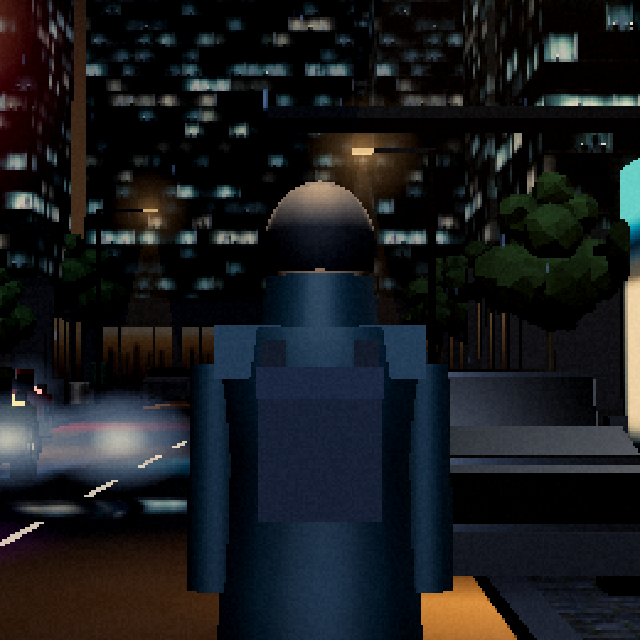
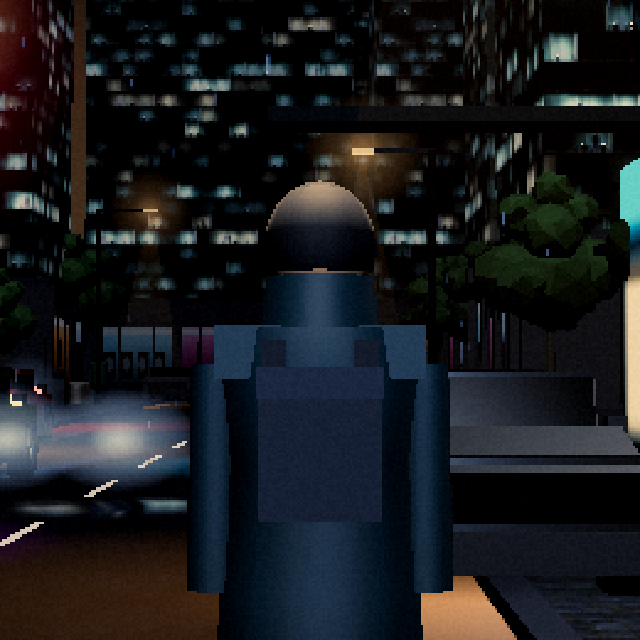
feat(render): four trades on the block instead of one bulb (VGA-043)
The shopfronts were never given away by any single pane. They were given away
by twenty identical amber panes in a row: one canvas texture, one colour
temperature, one stock layout, repeated down the whole district.

The interior is now a 256x128 four-cell atlas — grocery, noodle bar,
laundromat, boutique — each with its own wash and its own stock: gondola
aisles and a shelf line, a counter with a cook behind it and pendant stems
overhead, washer drums with lit glass, mannequins on a plinth. Each trade
also carries its own pavement spill colour, so the light landing on the
pavement agrees with the light in the window.

Bays choose a cell by (blockIndex * 3 + bayIndex) % 4. Three is coprime with
four, so no two neighbouring tenancies match and no block repeats the block
before it. This is a UV offset into a texture that already existed: no new
material, no new mesh, no new draw.

Two contrast fixes that came out of looking at it at eye level:

- Every pane's wash bottomed out near black, so the lower third was a void
  and the shopfront read as a bright band floating over a hole. Floors lifted.
- The shared trim material (sills, mullions, plinths, awnings) was 0x0b0d12.
  An awning at that value is not dark, it is absent — a hole punched in the
  frame. Now 0x1b1f27 with a little metalness and env response.

Draws: 156 peak / 140 mode on the same scripted sweep — unchanged from
b34d167, as expected for a UV-only change.
[…]

diff --git a/src/render/block.js b/src/render/block.js
@@ -281,33 +281,81 @@ const FACADE_MAPS = [
 // What the pane emits, not what colour it is. A flat amber rectangle is a
 // lightbox; a shop is a bright ceiling, a dim floor and stock in between, and
 // at play distance that gradient plus a few dark verticals is the whole read.
-// Every pane maps this once, so the district costs one 128x64 canvas.
-function shopInteriorTexture() {
-  const c = document.createElement('canvas');
-  c.width = 128;
-  c.height = 64;
-  const g = c.getContext('2d');
-  const wash = g.createLinearGradient(0, 0, 0, 64);
-  wash.addColorStop(0, '#ffdcae');
-  wash.addColorStop(0.28, '#e8a863');
-  wash.addColorStop(0.72, '#8a5a30');
-  wash.addColorStop(1, '#241708');
+//
+// Four of them, in one 256x128 atlas, because the thing that gave the old
+// single-cell version away was not any one pane — it was twenty identical
+// amber panes in a row down the block. Each trade also gets its own colour
+// temperature, so the street stops being lit by one bulb.
+const SHOP_KINDS = [
+  { wash: ['#eef6ff', '#d4e3f4', '#9db2c8', '#3c4a5a'], spill: '#dbe8ff' },  // grocery
+  { wash: ['#ffe0b0', '#efad70', '#9a663a', '#4a301a'], spill: '#ffb066' },  // noodle bar
+  { wash: ['#dff6ff', '#a8dcef', '#5d8b9e', '#2c424c'], spill: '#bfe4f5' },  // laundromat
+  { wash: ['#ffd9ec', '#e894c1', '#95496d', '#452032'], spill: '#ffa8d0' },  // boutique
+];
+
+function paintShopCell(g, kind, ox, oy) {
+  const w = 128;
+  const h = 64;
+  const wash = g.createLinearGradient(0, oy, 0, oy + h);
+  const stops = SHOP_KINDS[kind].wash;
+  [0, 0.28, 0.72, 1].forEach((t, i) => wash.addColorStop(t, stops[i]));
   g.fillStyle = wash;
-  g.fillRect(0, 0, 128, 64);
-  g.fillStyle = 'rgba(255,240,215,0.85)';
-  g.fillRect(0, 2, 128, 5);           // ceiling strip
-  g.fillStyle = 'rgba(20,12,6,0.72)';
-  for (const [x, w, top] of [[12, 9, 22], [31, 6, 30], [58, 11, 18], [83, 7, 27], [104, 10, 24]]) {
-    g.fillRect(x, top, w, 64 - top);  // shelving and stock
+  g.fillRect(ox, oy, w, h);
+  g.fillStyle = 'rgba(255,255,255,0.9)';
+  g.fillRect(ox, oy + 2, w, 5);                                  // ceiling strip
+  const ink = 'rgba(14,10,6,0.74)';
+  g.fillStyle = ink;
+  if (kind === 0) {
+    for (const x of [10, 34, 58, 82, 106]) g.fillRect(ox + x, oy + 20, 12, 44);
+    g.fillRect(ox, oy + 40, w, 2);                               // aisle shelf line
+  } else if (kind === 1) {
+    g.fillRect(ox + 8, oy + 46, w - 16, 12);                     // counter
+    g.fillRect(ox + 52, oy + 24, 7, 18);                         // cook behind it
+    g.fillRect(ox + 51, oy + 18, 9, 7);
+    for (const x of [22, 46, 70, 94]) g.fillRect(ox + x, oy + 7, 3, 9);  // pendant stems
+  } else if (kind === 2) {
+    for (const x of [14, 44, 74, 104]) {                         // washer drums
+      g.fillRect(ox + x - 10, oy + 26, 22, 30);
+      g.fillStyle = 'rgba(230,248,255,0.55)';
+      g.beginPath(); g.arc(ox + x, oy + 40, 7, 0, Math.PI * 2); g.fill();
+      g.fillStyle = ink;
+    }
+  } else {
+    for (const x of [30, 96]) {                                  // two mannequins
+      g.fillRect(ox + x - 3, oy + 22, 6, 34);
+      g.fillRect(ox + x - 5, oy + 16, 10, 7);
+    }
+    g.fillRect(ox + 56, oy + 44, 18, 20);                        // a low plinth
   }
-  g.fillStyle = 'rgba(12,8,4,0.8)';
-  g.fillRect(44, 34, 5, 30);          // a figure at the counter
-  g.fillRect(43, 29, 7, 6);
   g.fillStyle = 'rgba(10,7,4,0.9)';
-  g.fillRect(0, 58, 128, 6);          // the sill's own shadow
+  g.fillRect(ox, oy + h - 6, w, 6);                              // the sill's shadow
+}
+
+function shopInteriorAtlas() {
+  const c = document.createElement('canvas');
+  c.width = 256;
+  c.height = 128;
+  const g = c.getContext('2d');
+  for (let k = 0; k < 4; k += 1) paintShopCell(g, k, (k % 2) * 128, k < 2 ? 0 : 64);
   const tex = new THREE.CanvasTexture(c);
   tex.colorSpace = THREE.SRGBColorSpace;
+  // No mips: a half-resolution mip of a 2x2 atlas bleeds the noodle bar into
+  // the laundromat, and these panes are never far enough away to need them.
+  tex.generateMipmaps = false;
+  tex.minFilter = THREE.LinearFilter;
   return tex;
+}
+
+// Point a pane's UVs at one atlas cell. Canvas row 0 is the top, and a
+// CanvasTexture flips Y, so cells 0 and 1 live in the upper half of UV space.
+function uvCell(geo, kind) {
+  const uv = geo.attributes.uv;
+  const cu = (kind % 2) * 0.5;
+  const cv = kind < 2 ? 0.5 : 0;
+  for (let i = 0; i < uv.count; i += 1) {
+    uv.setXY(i, cu + uv.getX(i) * 0.5, cv + uv.getY(i) * 0.5);
+  }
+  return geo;
 }
 
 function towerMaterials(texLoader, maxAniso) {
@@ -337,7 +385,7 @@ function towerMaterials(texLoader, maxAniso) {
   // Ground-floor glazing, one material per power zone. It has to be zoned:
   // a shopfront still burning through a blackout is exactly the dishonesty
   // VGA-007 was opened for. Emissive is driven from main with the lamps.
-  const interior = shopInteriorTexture();
+  const interior = shopInteriorAtlas();
   const shopGlass = [0, 1].map(() => {
     const m = new THREE.MeshStandardMaterial({
       color: 0x11161d, emissive: 0xffffff, emissiveIntensity: 0, emissiveMap: interior,
@@ -389,7 +437,7 @@ export function buildTowers(texLoader, maxAniso) {
   const SHOP_MARGIN = 1.5;     // solid pier each side of the glazing
   const AWNING_OUT = 0.85;
   const SPILL_OUT = 1.9;       // pool centre, just off the kerb side of the glass
-  function dressGroundFloor(cx, cz, w, d, zone, [fx, fz], pod) {
+  function dressGroundFloor(cx, cz, w, d, zone, [fx, fz], pod, idx) {
     const alongZ = fx !== 0;
     const pw = w + 1.2;
     const pd = d + 1.2;
@@ -418,12 +466,18 @@ export function buildTowers(texLoader, maxAniso) {
       for (let i = 0; i < bays; i++) {
         const u = -run / 2 + i * (bayW + pier) + bayW / 2;
         const [gx, gz] = at(u, 0.02);
-        shopGeos[zone].push(faceBox(bayW, gh, 0.08, gx, midY, gz, alongZ));
+        // Which trade this tenancy is. Stepping by a number coprime with 4
+        // across both the block index and the bay index means no two
+        // neighbours match and no block repeats the block before it.
+        const kind = (idx * 3 + i) % SHOP_KINDS.length;
+        shopGeos[zone].push(uvCell(faceBox(bayW, gh, 0.08, gx, midY, gz, alongZ), kind));
         // Spill on the pavement. A lit window with dark ground under it is a
         // sticker; this rides the existing per-zone pool mesh, so it is free
         // and it dies in a blackout with everything else.
         const [lx, lz] = at(u, SPILL_OUT);
-        shopPools.push({ x: lx, z: lz, size: Math.min(bayW * 1.5, 7), color: '#ffb066', zone });
+        shopPools.push({
+          x: lx, z: lz, size: Math.min(bayW * 1.5, 7), color: SHOP_KINDS[kind].spill, zone,
+        });
         // Mullions inside a bay: the vertical rhythm that says shopfront.
         for (const mu of [-bayW / 4, bayW / 4]) {
           const [mx, mz] = at(u + mu, 0.09);
@@ -461,7 +515,7 @@ export function buildTowers(texLoader, maxAniso) {
     caps.push(box(doorW, doorH, 0.06, cx, doorH / 2, faceZ));
     // Small canopy over the door.
     caps.push(box(doorW + 0.6, 0.1, 0.8, cx, doorH + 0.15, faceZ + 0.35));
-    if (face) dressGroundFloor(cx, cz, w, d, zone, face, pod);
+    if (face) dressGroundFloor(cx, cz, w, d, zone, face, pod, idx);
     shaft.push(worldUVs(box(w, h, d, cx, h / 2, cz), w, h, d, 11));
     let topY = h;
     if (h >= 30 && idx % 2 === 0) {
@@ -518,7 +572,9 @@ export function buildTowers(texLoader, maxAniso) {
     m.receiveShadow = false;
     return m;
   });
-  const capMat = new THREE.MeshStandardMaterial({ color: 0x0b0d12, roughness: 0.9 });
+  const capMat = new THREE.MeshStandardMaterial({
+    color: 0x1b1f27, roughness: 0.78, metalness: 0.15, envMapIntensity: 0.7,
+  });
   const capMesh = new THREE.Mesh(mergeGeometries(caps), capMat);
   capMesh.castShadow = true;
   group.add(capMesh);

diff --git a/docs/VISUAL-GAP-ACTIONS.md b/docs/VISUAL-GAP-ACTIONS.md
@@ -124,7 +124,7 @@ before reinstating anything that was removed.
 - **VGA-040 Daylight facade balance.** Shade faces hold detail, sunlit faces stop blowing out (exposure discipline, not more lights). Done when: valley + noon frames hold both sides. Draws: +0.
 - **VGA-041 Second/third skins.** ⏳ PARTIAL (slice 023: poured concrete with punched windows is now a real second architecture — `concrete_wall_008` via the new Poly Haven ARM loader, every third tower, per-zone twins so it dies in a blackout like the glass does. Evidence `slice-023-day.png` (matte slabs beside reflective glass), `slice-023-night.png`, `slice-023-blackout.png`. Still two architectures, not three — A and B glass differ only by tint, so this stays open until a third lands.) Two more facade materials so the district isn't one glass. Done when: skyline shows 3+ architectures. Draws: +2.
 - **VGA-042 Rooftop furniture.** Water towers, AC farms, antennas, billboards, parapets with craft, gardens. Done when: looking-up frame ends in interest. Draws: +2.
-- **VGA-043 Shopfronts that live.** ⏳ PARTIAL (slice 028: the external review's biggest surviving finding. Ground-floor glazing now runs every dressed podium face, split into ~3.6m tenancies with solid piers between and mullions inside each bay, so the block reads as four shops rather than one ribbon of light. Each pane carries a baked interior — bright ceiling strip, graded wash, dark shelving verticals, a figure at the counter — so it is a room, not a lightbox. Warm spill lands on the pavement in front of every bay, riding the existing per-zone pool mesh for +0. The glazing is zoned, so a blackout kills the shops and their spill together: `slice-028-blackout.png`. Evidence `slice-028-shopfront-night.png` + `slice-028-shopfront-day.png` + `slice-028-street-night.png`. Measured 160 draws steady, 166 peak — +2, one glazing mesh per power zone. Moving silhouettes and real interior depth still open. Slice 030 gave the glazing a daylight floor: a tower's windows go dark at noon but a shop's do not, and without it every dressed ground floor read as a black hole punched in a sunlit wall. Still zoned, so a daytime blackout kills it honestly.) Draws: +2.
+- **VGA-043 Shopfronts that live.** ⏳ PARTIAL (slice 028: the external review's biggest surviving finding. Ground-floor glazing now runs every dressed podium face, split into ~3.6m tenancies with solid piers between and mullions inside each bay, so the block reads as four shops rather than one ribbon of light. Each pane carries a baked interior — bright ceiling strip, graded wash, dark shelving verticals, a figure at the counter — so it is a room, not a lightbox. Warm spill lands on the pavement in front of every bay, riding the existing per-zone pool mesh for +0. The glazing is zoned, so a blackout kills the shops and their spill together: `slice-028-blackout.png`. Evidence `slice-028-shopfront-night.png` + `slice-028-shopfront-day.png` + `slice-028-street-night.png`. Measured 160 draws steady, 166 peak — +2, one glazing mesh per power zone. Moving silhouettes and real interior depth still open. Slice 030 gave the glazing a daylight floor: a tower's windows go dark at noon but a shop's do not, and without it every dressed ground floor read as a black hole punched in a sunlit wall. Still zoned, so a daytime blackout kills it honestly. Slice 031: the giveaway was never one pane, it was twenty identical amber panes in a row — one canvas, one colour temperature, the whole district lit by a single bulb. The interior is now a 256x128 four-cell atlas (grocery, noodle bar, laundromat, boutique), each with its own wash, its own stock — gondola aisles, a counter with a cook and pendant stems, washer drums, mannequins — and its own pavement spill colour. Bays pick a cell by `(blockIndex * 3 + bayIndex) % 4`, so no two neighbours match and no block repeats the one before it. Pure UV offsets into one texture: +0 draws, no new material. Pane floors lifted off black, and the shared trim material went 0x0b0d12 to 0x1b1f27 because an awning at that value is a hole in the frame, not a thing. Evidence `slice-031-shopfront-night.png` + `slice-031-shopfront-day.png` + `slice-031-street-night.png`. 156 peak, unchanged.) Draws: +2.
 
 ## H. Signage (excess, layered)
 
